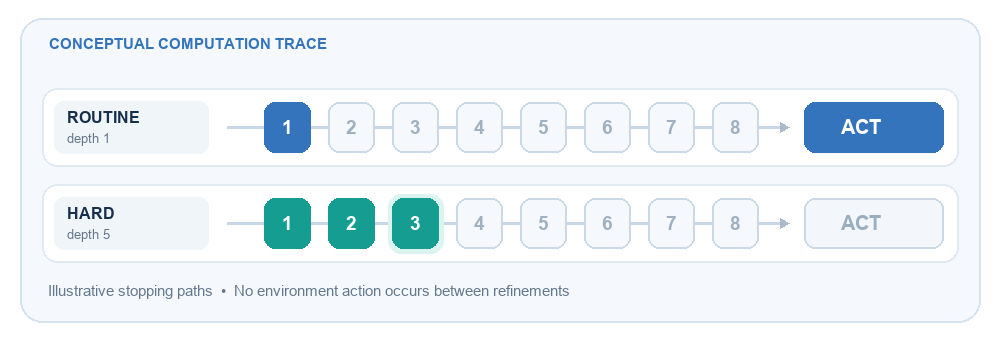
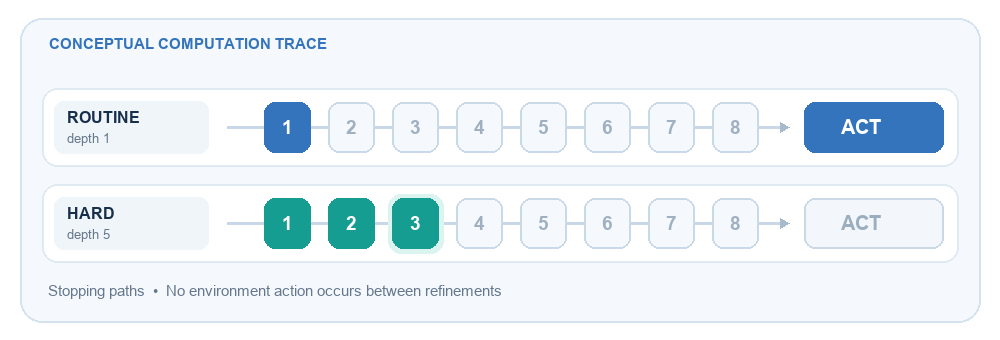
Remove illustrative label from depth animation

Changed region(s): [[0.031, 0.8235, 0.589, 0.8824]]

diff --git a/index.html b/index.html
@@ -26,7 +26,7 @@
       </div>
       <div class="hero-concept">
         <div class="concept-heading"><span>One policy, different depths</span><span class="concept-cap">Up to 8 steps</span></div>
-        <picture><source media="(prefers-reduced-motion: reduce)" srcset="assets/adaptive-depth-poster.png"><img class="concept-gif" src="assets/adaptive-depth-demo.gif" width="1000" height="340" alt="Animated conceptual example: a routine state acts after one refinement; a hard state continues to depth five before acting. These are illustrative paths, not measured policy depths."></picture>
+        <picture><source media="(prefers-reduced-motion: reduce)" srcset="assets/adaptive-depth-poster.png"><img class="concept-gif" src="assets/adaptive-depth-demo.gif" width="1000" height="340" alt="Animated conceptual example: a routine state acts after one refinement; a hard state continues to depth five before acting. These are examples, not measured policy depths."></picture>
         <p>Conceptual illustration; the pictured depths are not measured policy outputs.</p>
       </div>
     </div>
